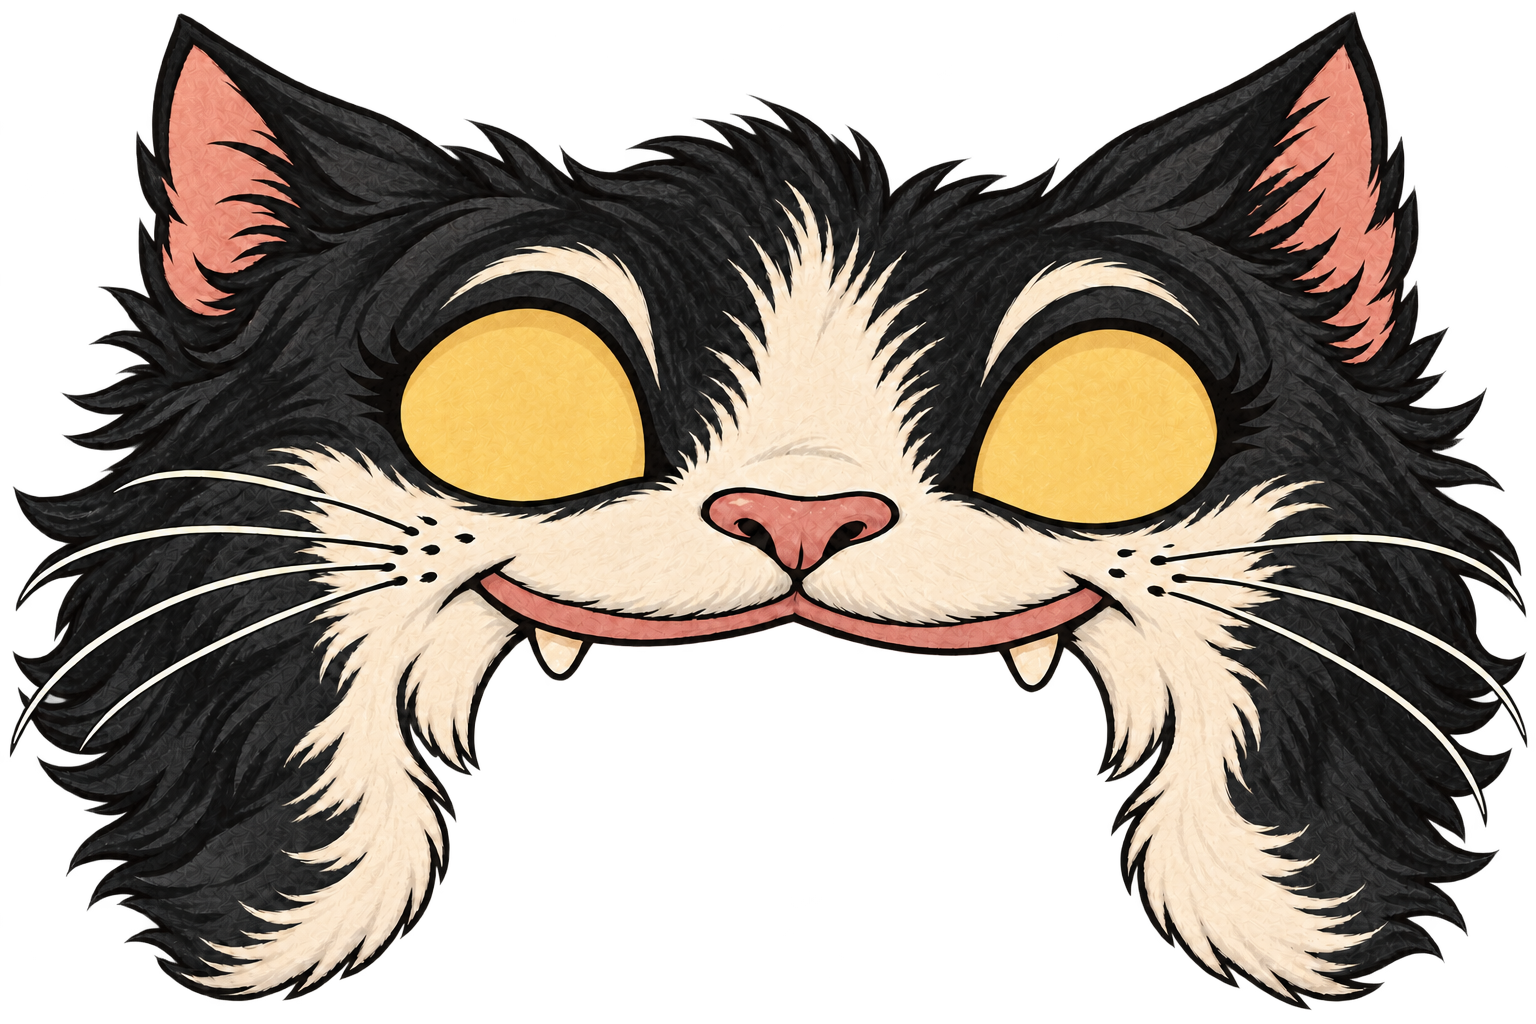
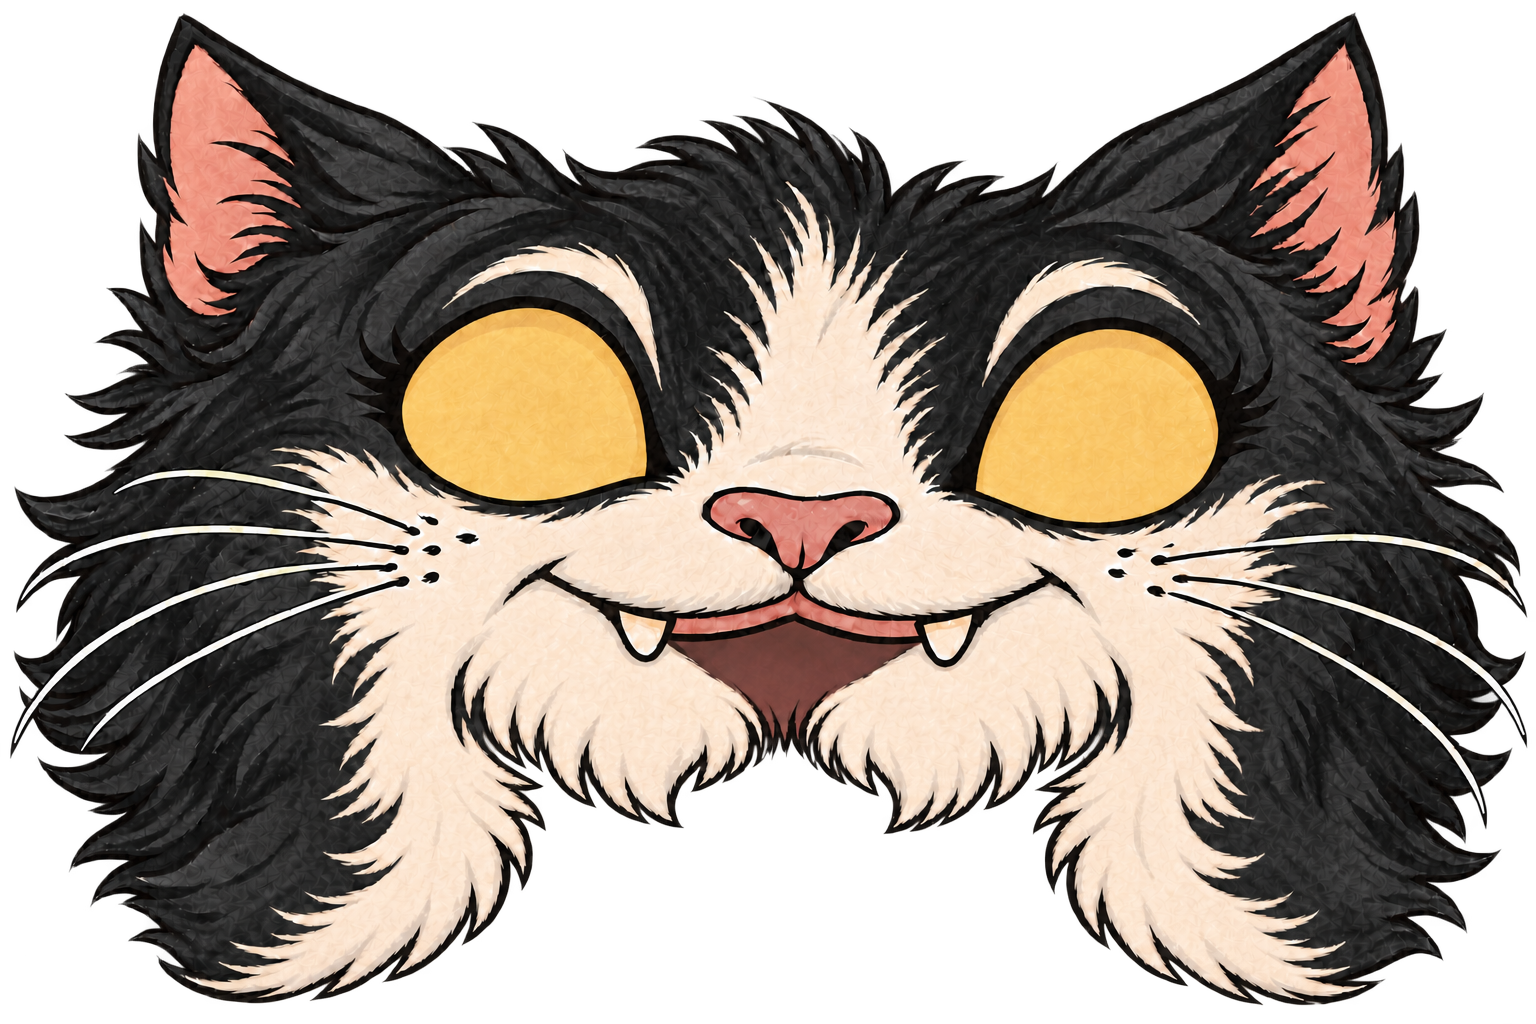
Pusher size tuning
Release 20261010131015.

diff --git a/index.html b/index.html
@@ -49,6 +49,7 @@ const PAY_L = 60, PAY_R = 340; // the bucket's edges: coins off the table past t
 // (a short stroke, so little bare table is left between the tongue and the coins in front of it, and the tongue is
 // never more than a third bare; the back wall sits right under the cat's upper lip, so coins fill the tongue)
 const PUSH_BACK = -25, TONGUE_H = 18, TONGUE_LEN = 300;
+const PUSH_HALF=110, LEDGE_BACK=164;
 let PUSH_MIN = 205, PUSH_MAX = 275, PUSH_PERIOD = 3.2;
 const COIN_R = 26, LUCKY_R = 28, ITEM_R = 30; // big coins: more action per coin, and fewer for the phone to simulate
 const COIN_HALF = 2, LUCKY_HALF = 3.5, ITEM_HALF = 9; // half thicknesses
@@ -176,7 +177,7 @@ let holding = false, holdPos = aim, taps = [], dropTimer = 0, saveTimer = 0, las
 // test-build readout at the bottom of the screen: physics time per step (ms) and frames per second, smoothed
 const perf = { step: 0, fps: 60 };
 // when this version was published (publish_game.ps1 fills it in), shown in the readout
-const BUILD = 'Oct 10, 12:02 PM · board preview';
+const BUILD = 'Oct 10, 1:10 PM · board preview';
 
 function initPhysics() {
   // the table tilts gently down toward the player (TILT_DEG): coins at rest stay put, but a push moves them
@@ -195,14 +196,14 @@ function initPhysics() {
   box(halfW + 40, 10, (T.FRONT + 100) / 2, 200, -10, (T.FRONT - 100) / 2, TABLE_FRICTION); // table top, open at the front
   box(10, 200, (T.FRONT + 100) / 2, T.L - 10, 190, (T.FRONT - 100) / 2, 0.2);               // side walls
   box(10, 200, (T.FRONT + 100) / 2, T.R + 10, 190, (T.FRONT - 100) / 2, 0.2);
-  box(halfW + 40, 150, 12, 200, TONGUE_H + 150, PUSH_MIN - 12, 0.2); // mouth barrier; coins cannot retreat into the cat
+  box(halfW + 40, 150, 12, 200, TONGUE_H + 150, LEDGE_BACK - 12, 0.2); // upper ledge backstop prevents coins retreating into the throat
   tongue = world.createRigidBody(RAPIER.RigidBodyDesc.kinematicPositionBased()
     .setTranslation(200 * M, TONGUE_H / 2 * M, (pusherY - TONGUE_LEN / 2) * M));
-  tongueContact = world.createCollider(RAPIER.ColliderDesc.cuboid(halfW * M, TONGUE_H / 2 * M, TONGUE_LEN / 2 * M)
+  tongueContact = world.createCollider(RAPIER.ColliderDesc.cuboid(PUSH_HALF * M, TONGUE_H / 2 * M, TONGUE_LEN / 2 * M)
     .setFriction(TONGUE_FRICTION).setSensor(true), tongue);
   // When unloaded, the sliding tongue slips under the resting mat. A stationary backing
   // supports it at the retracted footprint; the moving tray only transmits a loaded push.
-  tongueRest = box(halfW, TONGUE_H / 2, TONGUE_LEN / 2,
+  tongueRest = box(PUSH_HALF, TONGUE_H / 2, TONGUE_LEN / 2,
     200, TONGUE_H / 2, PUSH_MIN - TONGUE_LEN / 2, TONGUE_FRICTION);
   sweepBody=world.createRigidBody(RAPIER.RigidBodyDesc.kinematicPositionBased().setTranslation(2,.12,SWEEP_START*M));
   sweepCollider=world.createCollider(RAPIER.ColliderDesc.cuboid(halfW*M,.12,.08).setFriction(.05),sweepBody);
@@ -245,7 +246,7 @@ function addCoin(kind, id, x, h, y, rot, linvel, angvel) {
 }
 
 // One isolated, deterministic board. Campaign and collection economy are deliberately absent.
-const BOARD = Object.freeze({ id:'snack-shelf', seed:42, coins:48, seconds:90,
+const BOARD = Object.freeze({ id:'snack-shelf', seed:42, coins:60, seconds:90,
  targets:[{id:'cheese',x:140,y:548},{id:'shrimp',x:260,y:548}] });
 let board = {status:'ready', remaining:BOARD.coins, elapsed:0, collected:[], used:0};
 let boardRandom = BOARD.seed;
@@ -363,6 +364,10 @@ function prefill() {
  for(const target of BOARD.targets) {
   const b=addCoin('item',target.id,target.x,COIN_HALF*2+halfOf('item')+1,target.y,yawTurn(0));
   b.boardTarget=true;
+ }
+ for(const x of [142,200,258]) {
+  const b=addCoin('coin',null,x,TONGUE_H+COIN_HALF+.3,190,yawTurn(seededRandom()*6));
+  b.ledgeCoin=true;
  }
 }
 
@@ -669,7 +674,7 @@ function pickDrop() {
 function tryDrop(at=aim) {
  if(board.status==='won'||board.status==='lost'||sweepTime>0||board.remaining<=0||pendingDrops.length>=6)return false;
  if(board.status==='ready')board.status='playing';
- const x=Math.max(T.L+COIN_R+2,Math.min(T.R-COIN_R-2,at.x));
+ const x=Math.max(200-PUSH_HALF+COIN_R,Math.min(200+PUSH_HALF-COIN_R,at.x));
  board.remaining--;board.used++;S.coins=board.remaining;S.drops++;
  pendingDrops.push(x);pushPending=true;
  return true;
@@ -679,9 +684,10 @@ function releaseDrop() {
  // Drop into the reopened gap, never onto the moving tray or an occupied coin.
  if(sweepTime>0||!pendingDrops.length||pusherY>PUSH_MIN+6||time<releaseAt)return;
  const aimed=pendingDrops[0];
- const slots=[60,116,172,228,284,340].filter(x=>Math.abs(x-aimed)<=88).sort((a,b)=>Math.abs(a-aimed)-Math.abs(b-aimed));
+ const slots=[116,172,228,284].filter(x=>Math.abs(x-aimed)<=88).sort((a,b)=>Math.abs(a-aimed)-Math.abs(b-aimed));
  const x=slots.find(x=>!bodies.some(b=>{
-  const p=b.rb.translation();return p.y>=0&&Math.hypot(p.x/M-x,p.z/M-DROP_Y)<COIN_R+b.r+2;
+  const p=b.rb.translation();if(b.ledgeCoin&&p.y/M>10)return false;
+  return p.y>=0&&Math.hypot(p.x/M-x,p.z/M-DROP_Y)<COIN_R+b.r+2;
  }));
  if(x===undefined)return;
  pendingDrops.shift();board.released++;releaseAt=time+.1;lastDrop=time;pushPending=true;
@@ -852,7 +858,7 @@ function step() {
 }
 
 function update(dt) {
-  pupilAim+=(aim.x-pupilAim)*Math.min(1,dt*12);
+  pupilAim+=((aim.lookX??aim.x)-pupilAim)*Math.min(1,dt*12);
   boardTick(dt);
   regen();
   guardAnim += ((S.guard > 0 ? 1 : 0) - guardAnim) * Math.min(1, dt * 5);
@@ -1410,12 +1416,8 @@ function drawEyes(ls) {
 // The tongue is a rigid tray sliding out of the mouth; its artwork never stretches.
 function drawTongue() {
  const bottom=proj(200,tongueDrawY).y;
- ctx.save();ctx.beginPath();ctx.rect(74,155,252,140);ctx.clip();
- // The fixed rear backing fills the mouth; the rigid moving slab slides over it.
- ctx.drawImage(ART.tongue,20,180,1594,400,74,145,252,95);
- // Source padding is cropped; placement is a translation, never a changing scale.
- ctx.drawImage(ART.tongue,20,170,1594,610,74,bottom-130,252,130);
- ctx.restore();
+ // A short narrow ledge, translated rigidly; mouth backing is in the head art.
+ ctx.drawImage(ART.tongue,45,278,1686,391,124,bottom-45,152,45);
 }
 
 function bucketRect() {
@@ -1745,7 +1747,8 @@ function newTable() { resetBoard(); return;
 function toGame(e) { const r = cv.getBoundingClientRect(); return { x: (e.clientX - r.left) / scale, y: (e.clientY - r.top) / scale }; }
 // The spot on the drop line straight across from where you touch (only left/right comes from the touch).
 function aimFromScreen(sx) {
-  return { x: Math.max(T.L + 18, Math.min(T.R - 18, unprojX(screenToGameX(sx), DROP_Y))), y: DROP_Y };
+  const lookX=Math.max(T.L,Math.min(T.R,unprojX(screenToGameX(sx),DROP_Y)));
+  return { x: Math.max(200-PUSH_HALF+COIN_R, Math.min(200+PUSH_HALF-COIN_R, lookX)), y: DROP_Y, lookX };
 }
 cv.addEventListener('pointerdown', e => {
   if (!world) return; // still loading
